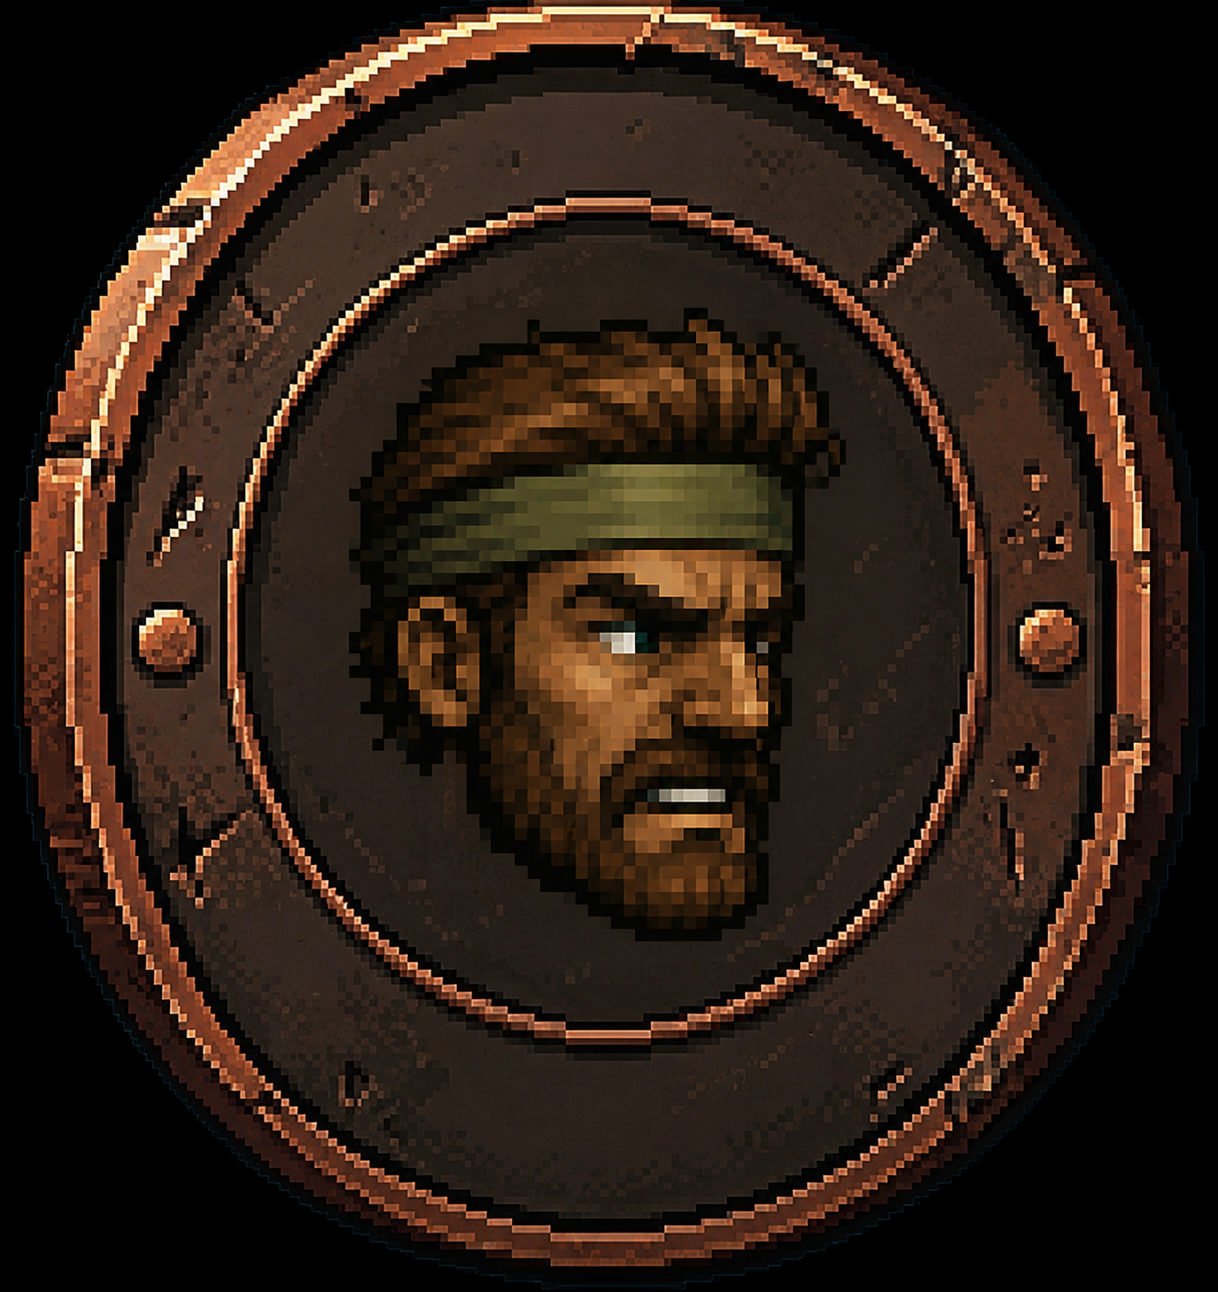
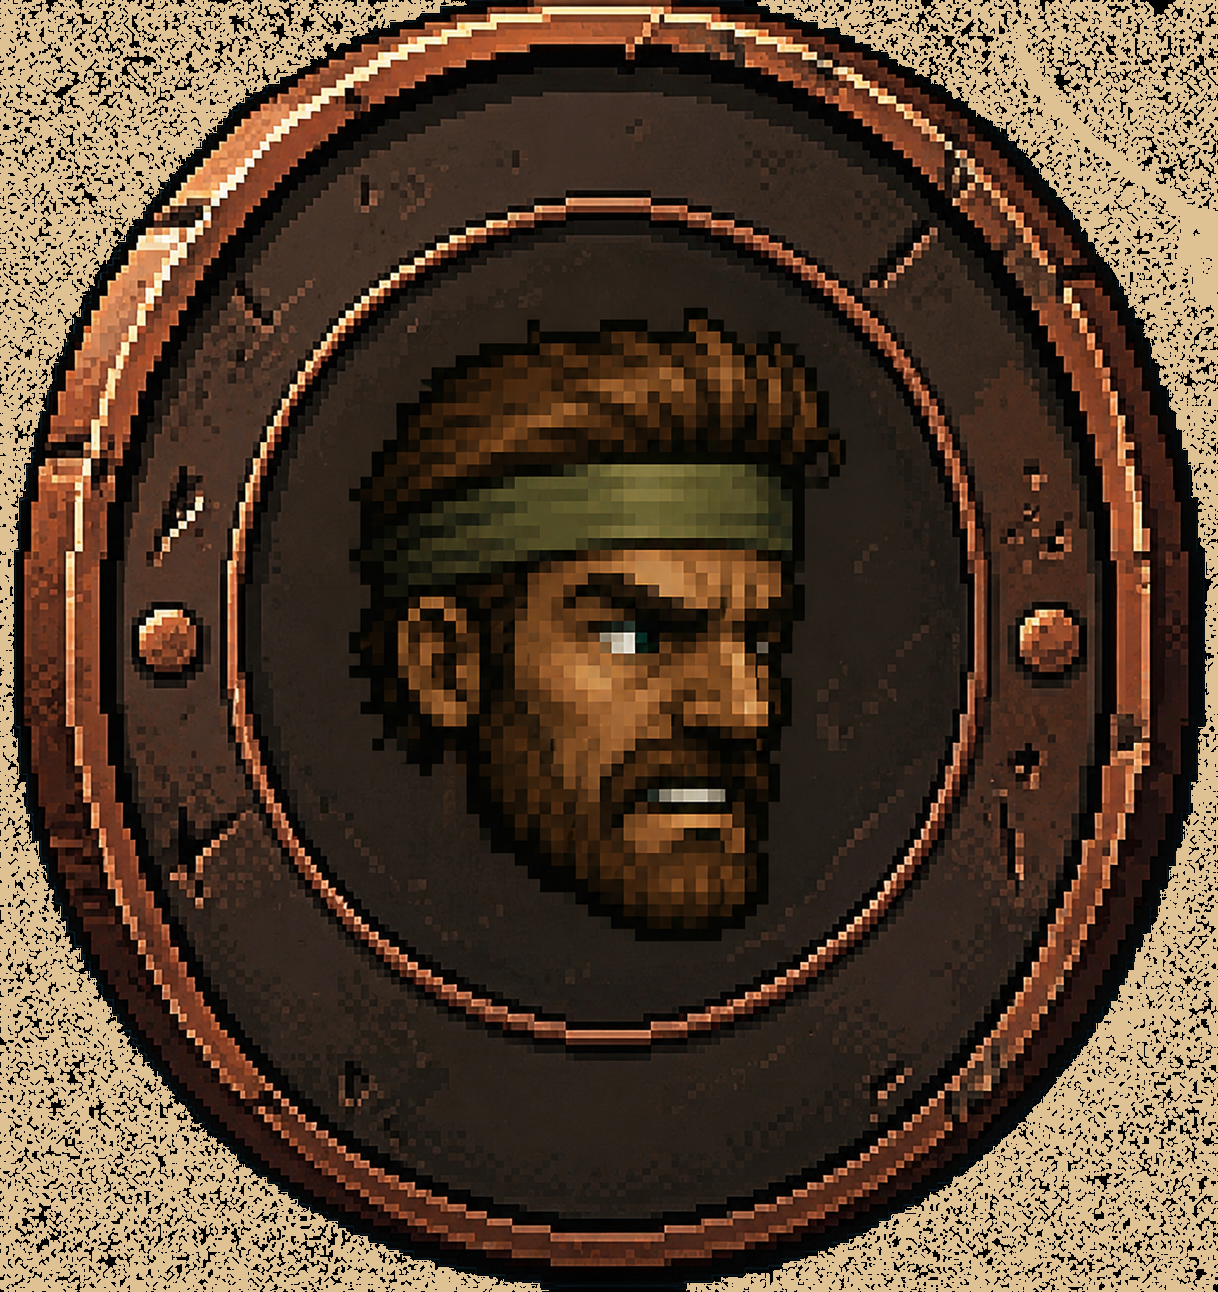
feat: adição de animações para o soldado inimigo (ainda em tratamento)

Changed region(s): [[0.5616, 0.0, 1.0, 1.0], [0.0, 0.0, 0.468, 1.0]]

diff --git a/core/src/main/java/com/Badlogic/runandshoot2d/personagens/SoldadoRebelde.java b/core/src/main/java/com/Badlogic/runandshoot2d/personagens/SoldadoRebelde.java
@@ -8,39 +8,114 @@ import com.badlogic.gdx.graphics.g2d.TextureRegion;
 
 public class SoldadoRebelde extends Inimigo {
 
+    // Lembra de que essa linha envolve (enum) para os estados de animação
+    private enum EstadoAnimacao {
+        ANDANDO, CAINDO, ATIRANDO
+    }
+
+    // Animações
     private Animation<TextureRegion> animacaoAndar;
+    private Animation<TextureRegion> animacaoCair;
+    private Animation<TextureRegion> animacaoAtirar;
+
+    // Controle da Animação do inimigo(soldado)
     private TextureRegion frameAtual;
     private float tempoDaAnimacao;
+    private EstadoAnimacao estadoAtual;
+    private EstadoAnimacao estadoAnterior;
     private boolean olhandoParaDireita = true;
 
     public SoldadoRebelde(float x, float y, Jogador jogador) {
         // Envia os dados para a estrutura unificada de IA do Pai
         super(x, y, 48f, 48f, null, 80f, jogador);
         this.tempoDaAnimacao = 0f;
+        this.estadoAtual = EstadoAnimacao.ANDANDO;
+        this.estadoAnterior = null; //Aqui atenção porque é responsável por forçar reset no primeiro Frame
 
-        Texture folha = new Texture(Gdx.files.internal("recursos/personagens/SpriteAnimation/inimigos/soldado/inimigo.png"));
-        TextureRegion[][] matriz = TextureRegion.split(folha, 100, 100);
+        // Animação de Andar
+        Texture folha = new Texture(Gdx.files.internal(
+            "recursos/personagens/SpriteAnimation/inimigos/soldado/inimigo.png"));
+        TextureRegion[][] matrizAndar = TextureRegion.split(folha, 100, 100);
 
         TextureRegion[] framesAndar = new TextureRegion[7];
         for (int i = 0; i < 7; i++) {
-            framesAndar[i] = matriz[0][i];
+            framesAndar[i] = matrizAndar[0][i];
         }
 
-        animacaoAndar = new Animation<TextureRegion>(0.12f, framesAndar);
+        animacaoAndar = new Animation<>(0.12f, framesAndar);
         animacaoAndar.setPlayMode(Animation.PlayMode.LOOP);
+
+        // Animação de Cair
+        Texture folhaCair = new Texture(Gdx.files.internal(
+            "recursos/personagens/SpriteAnimation/inimigos/soldado/soldado_pulo.png"));
+        TextureRegion[][] matrizCair = TextureRegion.split(folhaCair, 201, 260);
+
+        // Ajuste o número de frames conforme seu spritesheet
+        int totalFramesCair = 4;
+        TextureRegion[] framesCair = new TextureRegion[totalFramesCair];
+        for (int i = 0; i < totalFramesCair; i++) {
+            framesCair[i] = matrizCair[0][i];
+        }
+        animacaoCair = new Animation<>(0.10f, framesCair);
+        animacaoCair.setPlayMode(Animation.PlayMode.NORMAL); // não loopa — congela no último frame
+
+        // ---- Animação: ATIRANDO ----
+        Texture folhaAtirar = new Texture(Gdx.files.internal(
+            "recursos/personagens/SpriteAnimation/inimigos/soldado/soldado_atirar.png"));
+        TextureRegion[][] matrizAtirar = TextureRegion.split(folhaAtirar, 201, 260);
+
+        // Ajuste o número de frames conforme seu spritesheet
+        int totalFramesAtirar = 5;
+        TextureRegion[] framesAtirar = new TextureRegion[totalFramesAtirar];
+        for (int i = 0; i < totalFramesAtirar; i++) {
+            framesAtirar[i] = matrizAtirar[0][i];
+        }
+        animacaoAtirar = new Animation<>(0.10f, framesAtirar);
+        animacaoAtirar.setPlayMode(Animation.PlayMode.LOOP); // loopa enquanto ele está na janela de recarga
     }
+
 
     @Override
     public void update(float delta) {
         // Deixa o pai resolver toda a física e gatilho de ataque
         super.update(delta);
 
+        // Aqui está a determinar o estado correto da animação por prioridade
+        EstadoAnimacao novoEstado;
+
+        if (seDesejaAtirar()) {
+            novoEstado = EstadoAnimacao.ATIRANDO;
+        } else if (getVelocidadeY() < -20f) {
+            novoEstado = EstadoAnimacao.CAINDO;
+        } else {
+            novoEstado = EstadoAnimacao.ANDANDO;
+        }
+
+        // Aqui estou resetando o 'timer' da animação
+        if (novoEstado != estadoAnterior) {
+            tempoDaAnimacao = 0f;
+            estadoAnterior = novoEstado;
+        }
+        estadoAtual = novoEstado;
+
         tempoDaAnimacao += delta;
-        frameAtual = animacaoAndar.getKeyFrame(tempoDaAnimacao);
 
-        // Adapta o flip gráfico conforme o veredito da IA do Pai
-        olhandoParaDireita = this.isOlhandoParaDireita();
+        // Aqui vai ser responsável por escolher o frame correto da animação
+        switch (estadoAtual) {
+            case ATIRANDO:
+                frameAtual = animacaoAtirar.getKeyFrame(tempoDaAnimacao);
+                break;
+            case CAINDO:
+                frameAtual = animacaoCair.getKeyFrame(tempoDaAnimacao);
+                break;
+            case ANDANDO:
+            default:
+                frameAtual = animacaoAndar.getKeyFrame(tempoDaAnimacao);
+                break;
+        }
 
+        // espelhamento da animação
+        boolean olhandoParaDireita = this.isOlhandoParaDireita();
         if (!olhandoParaDireita && !frameAtual.isFlipX()) {
             frameAtual.flip(true, false);
         } else if (olhandoParaDireita && frameAtual.isFlipX()) {
@@ -50,22 +125,28 @@ public class SoldadoRebelde extends Inimigo {
 
     @Override
     public void draw(Batch batch) {
-        if (frameAtual != null) {
-            if (isEstaPiscando()) {
-                batch.setBlendFunction(com.badlogic.gdx.graphics.GL20.GL_SRC_ALPHA, com.badlogic.gdx.graphics.GL20.GL_ONE);
-                batch.setColor(0f, 0f, 0f, 1f);
-                batch.draw(frameAtual, rect.x - 4, rect.y, 40, 42);
+        if (frameAtual == null) return;
 
-                batch.setBlendFunction(com.badlogic.gdx.graphics.GL20.GL_ONE, com.badlogic.gdx.graphics.GL20.GL_ONE);
-                batch.setColor(1f, 1f, 1f, 1f);
-            }
-
+        if (isEstaPiscando()) {
+            batch.setBlendFunction(
+                com.badlogic.gdx.graphics.GL20.GL_SRC_ALPHA,
+                com.badlogic.gdx.graphics.GL20.GL_ONE);
+            batch.setColor(0f, 0f, 0f, 1f);
             batch.draw(frameAtual, rect.x - 4, rect.y, 40, 42);
 
-            if (isEstaPiscando()) {
-                batch.setBlendFunction(com.badlogic.gdx.graphics.GL20.GL_SRC_ALPHA, com.badlogic.gdx.graphics.GL20.GL_ONE_MINUS_SRC_ALPHA);
-                batch.setColor(com.badlogic.gdx.graphics.Color.WHITE);
-            }
+            batch.setBlendFunction(
+                com.badlogic.gdx.graphics.GL20.GL_ONE,
+                com.badlogic.gdx.graphics.GL20.GL_ONE);
+            batch.setColor(1f, 1f, 1f, 1f);
+        }
+
+        batch.draw(frameAtual, rect.x - 4, rect.y, 40, 42);
+
+        if (isEstaPiscando()) {
+            batch.setBlendFunction(
+                com.badlogic.gdx.graphics.GL20.GL_SRC_ALPHA,
+                com.badlogic.gdx.graphics.GL20.GL_ONE_MINUS_SRC_ALPHA);
+            batch.setColor(com.badlogic.gdx.graphics.Color.WHITE);
         }
     }
 }

diff --git a/core/src/main/java/com/Badlogic/runandshoot2d/personagens/Inimigo.java b/core/src/main/java/com/Badlogic/runandshoot2d/personagens/Inimigo.java
@@ -114,4 +114,7 @@ public abstract class Inimigo extends ObjetoJogo {
     public boolean isOlhandoParaDireita() {
         return andandoParaDireita;
     }
+    public float getVelocidadeY() {
+        return velocidade.y;
+    }
 }
